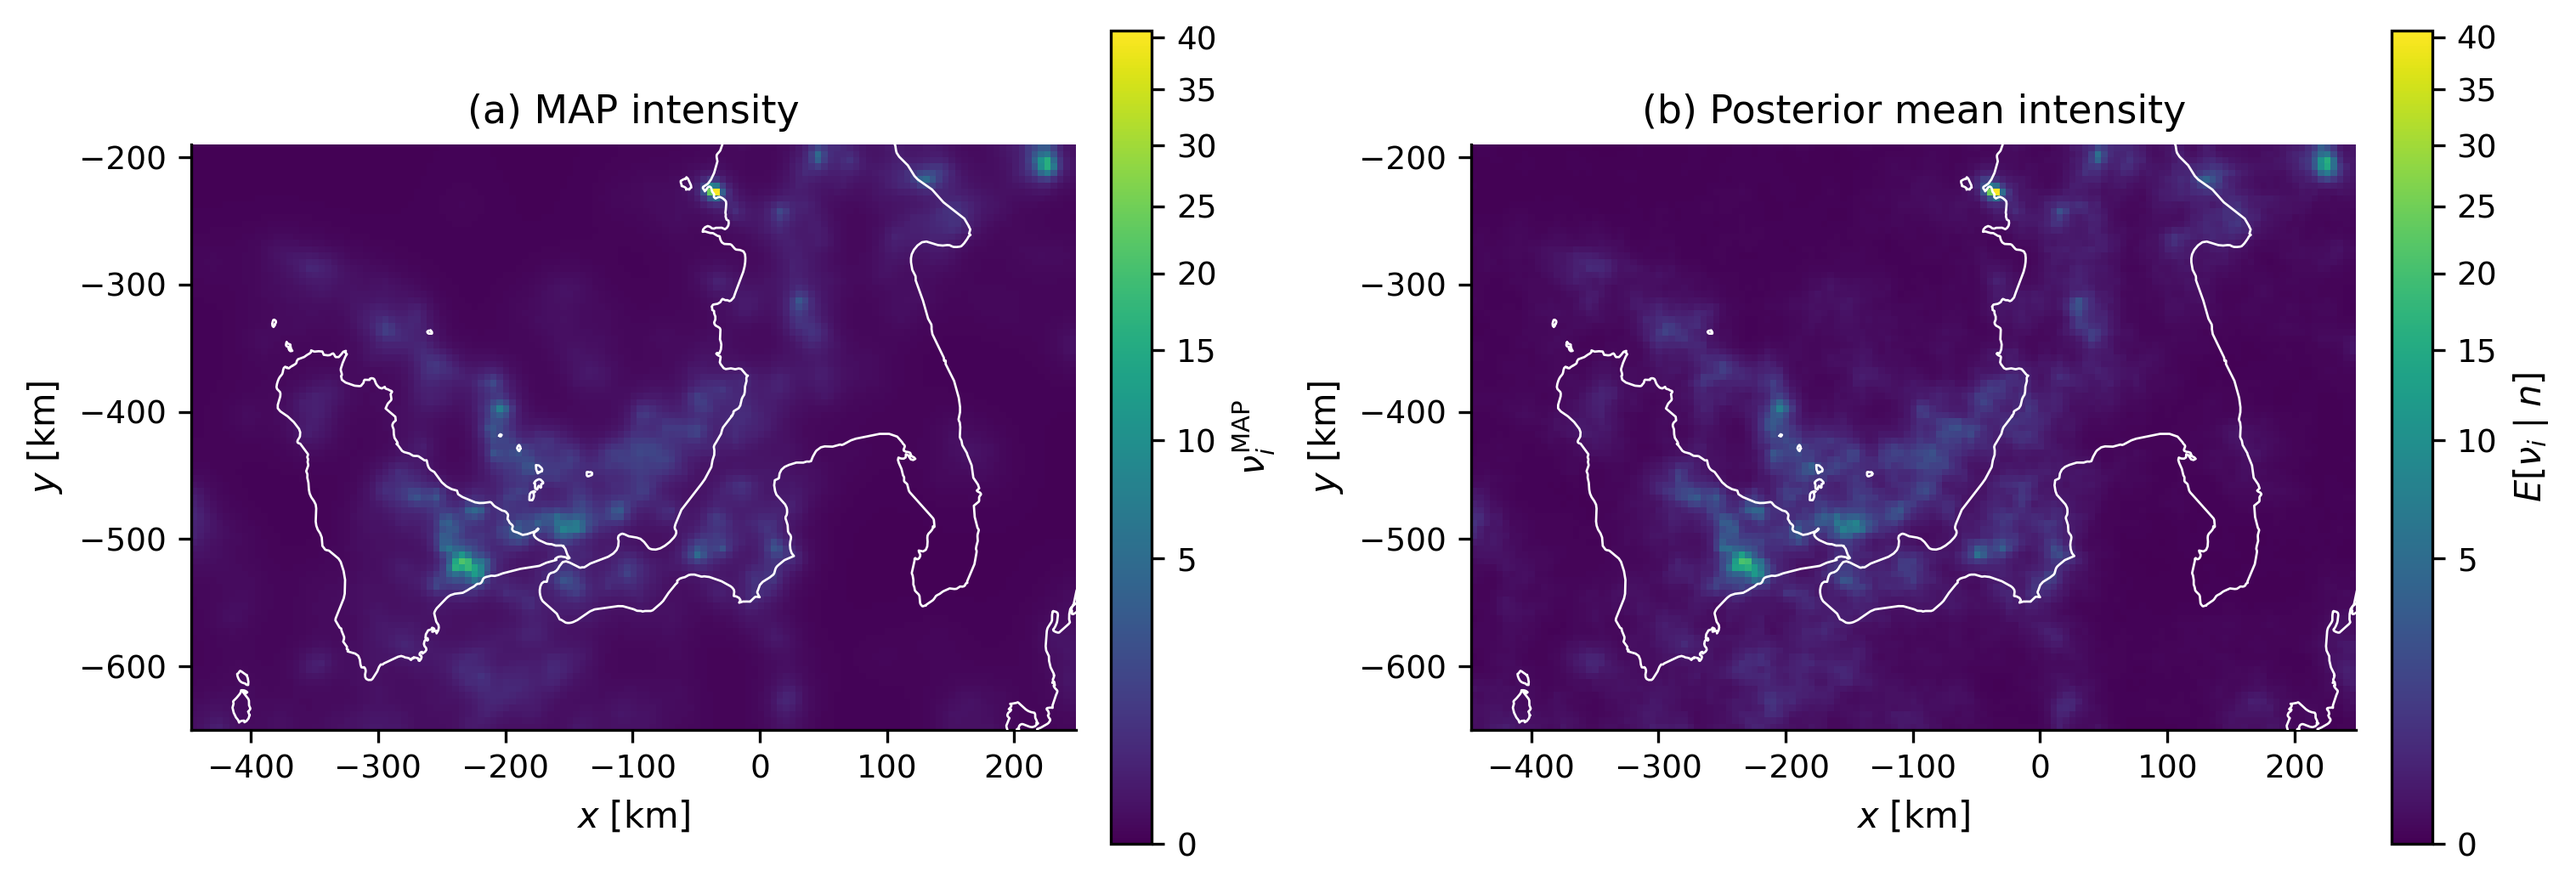
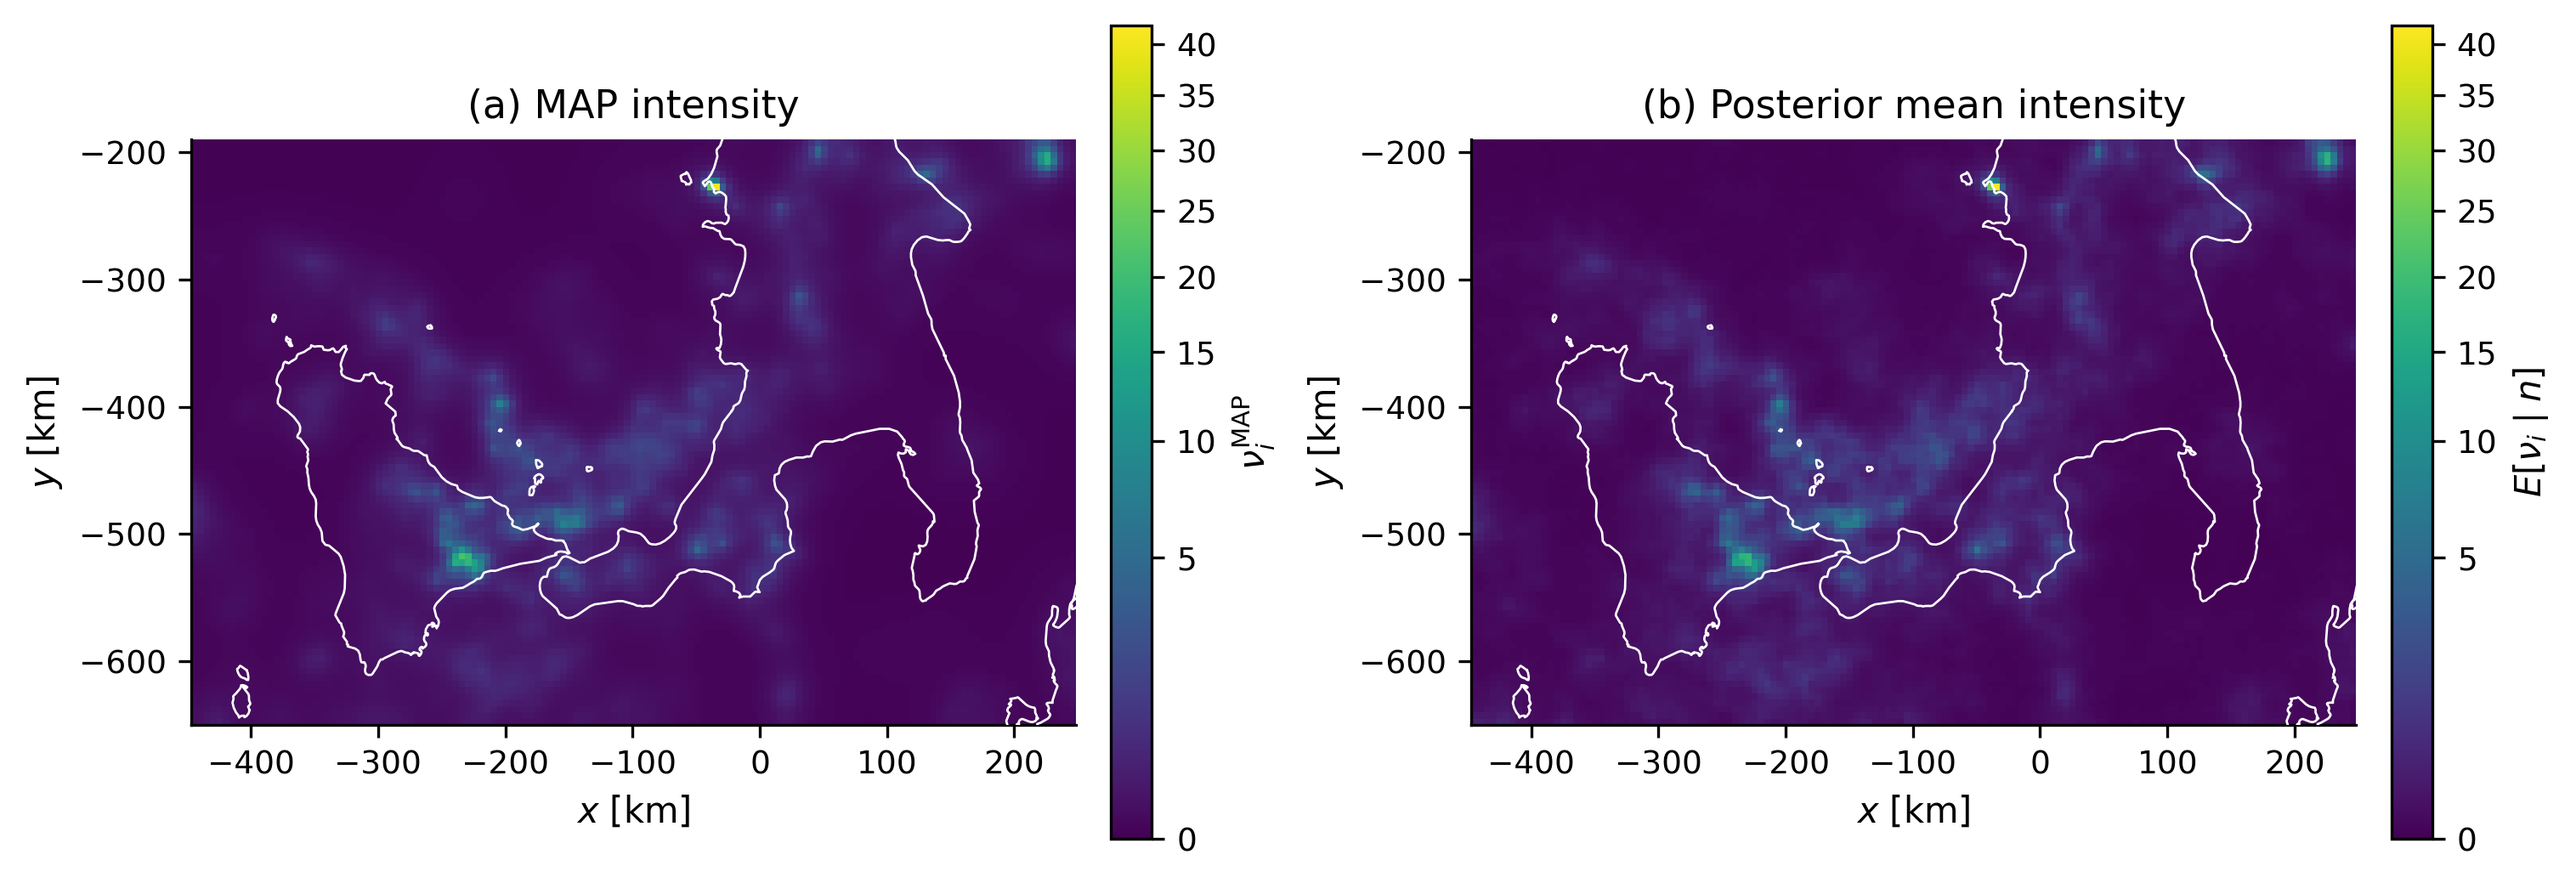
progressing

diff --git a/experiments/italy_data.py b/experiments/italy_data.py
@@ -1,0 +1,220 @@
+from polyagammapoisson.catalog.catalog import Catalog, MapMixin, BValueMixin, AValueMixin
+from polyagammapoisson.catalog import coordinates
+from pathlib import Path
+import zipfile
+import pickle
+from shapely.geometry import box
+import geopandas as gpd
+import polyagammapoisson.polyagammadensity as pgd
+import polyagammapoisson.covariance_kernels as ck
+import numpy as np
+
+REPO_ROOT = Path(__file__).resolve().parent.parent
+
+ITALYCOASTLINE =  REPO_ROOT / "data" /  "coastlines/ne_10m_coastline.zip"
+EXTRACTED_COASTLINE_DIR = REPO_ROOT / "experiments" / "naturalearth" 
+
+CATALOGS = {
+    'HORUS':  (
+            REPO_ROOT / "data" / 'HORUS/HORUS_Ita_Catalog.txt',
+            {'sep': '|'},   # kwargs for pd.read_csv
+            {}              # mapping for column names
+        ),
+
+    'INGV':   (
+            REPO_ROOT / "data" /'italy_ingv_m2point5_2015-2026.txt',
+            {'sep': '|', 'parse_dates': ['Time']},    # kwargs for pd.read_csv
+            {'Lon': 'Longitude',
+                'Lat': 'Latitude',
+                'MAG': 'Magnitude',
+                'Time': 'Time',
+                'Depth': 'Depth/Km',
+                'Id': '#EventID',
+                'type_to_keep': ('EventType', 'earthquake') # used to filter from other than earthquakes
+            }
+        )
+}
+
+
+
+
+
+class Italy(MapMixin, Catalog):
+
+    def __init__(self, **kwargs):
+        super().__init__(**kwargs)
+
+        self._coordinates = coordinates.Italy_Coordinates
+        #self.cache_file = self.REPO_ROOT / "experiments" / "cache" / "italy_coastlines.pkl"
+
+    @property
+    def coastlines(self):
+        if not hasattr(self, 'polygons') or self.polygons is None:
+
+            if hasattr(self, 'cache_file') and self.cache_file.exists():
+                print(f"Loading cached coastlines from {self.cache_file}")
+                with open(self.cache_file, "rb") as file:
+                    cache = pickle.load(file)
+
+                self.polygons = cache.get("polygons", None)
+                if self.polygons is not None:
+                    return self.polygons
+
+            with zipfile.ZipFile(open(ITALYCOASTLINE, "rb")) as z:
+                z.extractall(EXTRACTED_COASTLINE_DIR)
+
+            coast = gpd.read_file(
+                EXTRACTED_COASTLINE_DIR / "ne_10m_coastline.shp"
+            )
+
+
+            bbox = box(6, 35, 19, 48)
+
+            italy_coast = coast
+
+
+            polygons = []
+            for geom in italy_coast.geometry:
+                if geom.geom_type == "LineString":
+                    polygons.append(np.asarray(geom.coords))
+
+                elif geom.geom_type == "MultiLineString":
+                    for line in geom.geoms:
+                        polygons.append(np.asarray(line.coords))
+
+            self.polygons = polygons
+
+            #with open(self.cache_file, "rb") as file:
+            #    cache = pickle.load(file)
+
+            #cache["polygons"] = self.polygons
+
+            #with open(self.cache_file, "wb") as file:
+            #    pickle.dump(cache, file)
+
+
+
+        return self.polygons
+
+class SicilyCalabria(Italy):
+
+    def __init__(self, **kwargs):
+        super().__init__(**kwargs)
+        self.filter_xy( -450, 250, -650, -190)
+        self.downsample_catalog()
+
+
+class StrettoDiMessina(Italy):
+
+    def __init__(self, **kwargs):
+        super().__init__(**kwargs)
+        self.filter_xy( -275, -69, -590, -420)
+        self.downsample_catalog()
+
+class ItalyBValue(BValueMixin, Italy):
+    def __init__(self, **kwargs):
+        self.kwargs=kwargs
+        super().__init__(**kwargs)
+
+class SicilyCalabriaBValue(BValueMixin,  SicilyCalabria ):
+    def __init__(self, **kwargs):
+        self.kwargs=kwargs
+        super().__init__(**kwargs)
+
+class StrettoDiMessinaBValue(BValueMixin, StrettoDiMessina):
+
+    def __init__(self, **kwargs):
+        self.kwargs=kwargs
+        super().__init__(**kwargs)
+
+class StrettoDiMessinaAValue(AValueMixin, StrettoDiMessina):
+
+    def __init__(self, **kwargs):
+        self.kwargs=kwargs
+        super().__init__(**kwargs)
+
+
+
+if __name__=='__main__':
+
+    import matplotlib.pyplot as plt
+
+
+    #: describe your catalog data
+    catalog = CATALOGS["INGV"]
+
+    S = SicilyCalabria(catalog=CATALOGS["INGV"], BINSIZE=10)
+
+
+    #Region = SicilyCalabriaBValue
+    #Region = ItalyBValue
+    Region = StrettoDiMessinaBValue
+
+    C = Region( catalog=CATALOGS["INGV"],
+                        PRECISIONCLASS=ck.precision_matern,
+                        prior_bvalue=1, 
+                        sparse=True,
+                        boundary="symmetric",
+                        v2=0.1, rho=20, M0=2.45)
+
+    RegionA = StrettoDiMessinaAValue
+
+    A = RegionA( catalog=CATALOGS["INGV"], BINSIZE=1, 
+                        PGCLASS=pgd.RampDensity2D,
+                        PRECISIONCLASS=ck.precision_matern,
+                        prior_avalue= 0, 
+                        sparse=True,
+                        boundary="symmetric",
+                        v2=1, rho=20, lam=10)
+
+    print(SicilyCalabriaBValue.__mro__)
+
+
+    
+
+
+    #b = C.binning_mag['magsum']  / \
+    #    np.where(C.binning_count['counts']>0, C.binning_count['counts'], 0.001)    
+
+    plt.figure(figsize=(10, 8))
+    plt.title('B-value')
+    b = C.b_from_f(C.calc.max_logposterior_estimator())
+    C.calc.imshow(b, 
+               origin='lower', 
+               extent=C.extent, cmap='jet')
+    C.plot_coastlines(color='white', linewidth=4)
+    plt.colorbar()
+
+    plt.plot(*C.xy, '.g', markersize=2)
+
+    plt.figure(figsize=(10, 8))
+
+    plt.title('A-value at M0')
+    a = A.a_from_f(A.calc.max_logposterior_estimator()) 
+
+    A.calc.imshow(a, 
+               origin='lower', 
+               extent=C.extent, cmap='jet')
+    C.plot_coastlines(color='white', linewidth=4)
+    plt.colorbar()
+
+    plt.plot(*C.xy, '.g', markersize=2)
+
+
+    plt.figure(figsize=(10, 8))
+
+    plt.title('A-value at 0')
+
+    A.calc.imshow((a + 2.5*b)/np.log(10) + np.log(b), 
+               origin='lower', 
+               extent=C.extent, cmap='jet')
+    C.plot_coastlines(color='white', linewidth=4)
+    plt.colorbar()
+
+    plt.plot(*C.xy, '.g', markersize=2)
+
+
+
+
+    
+    plt.show()
